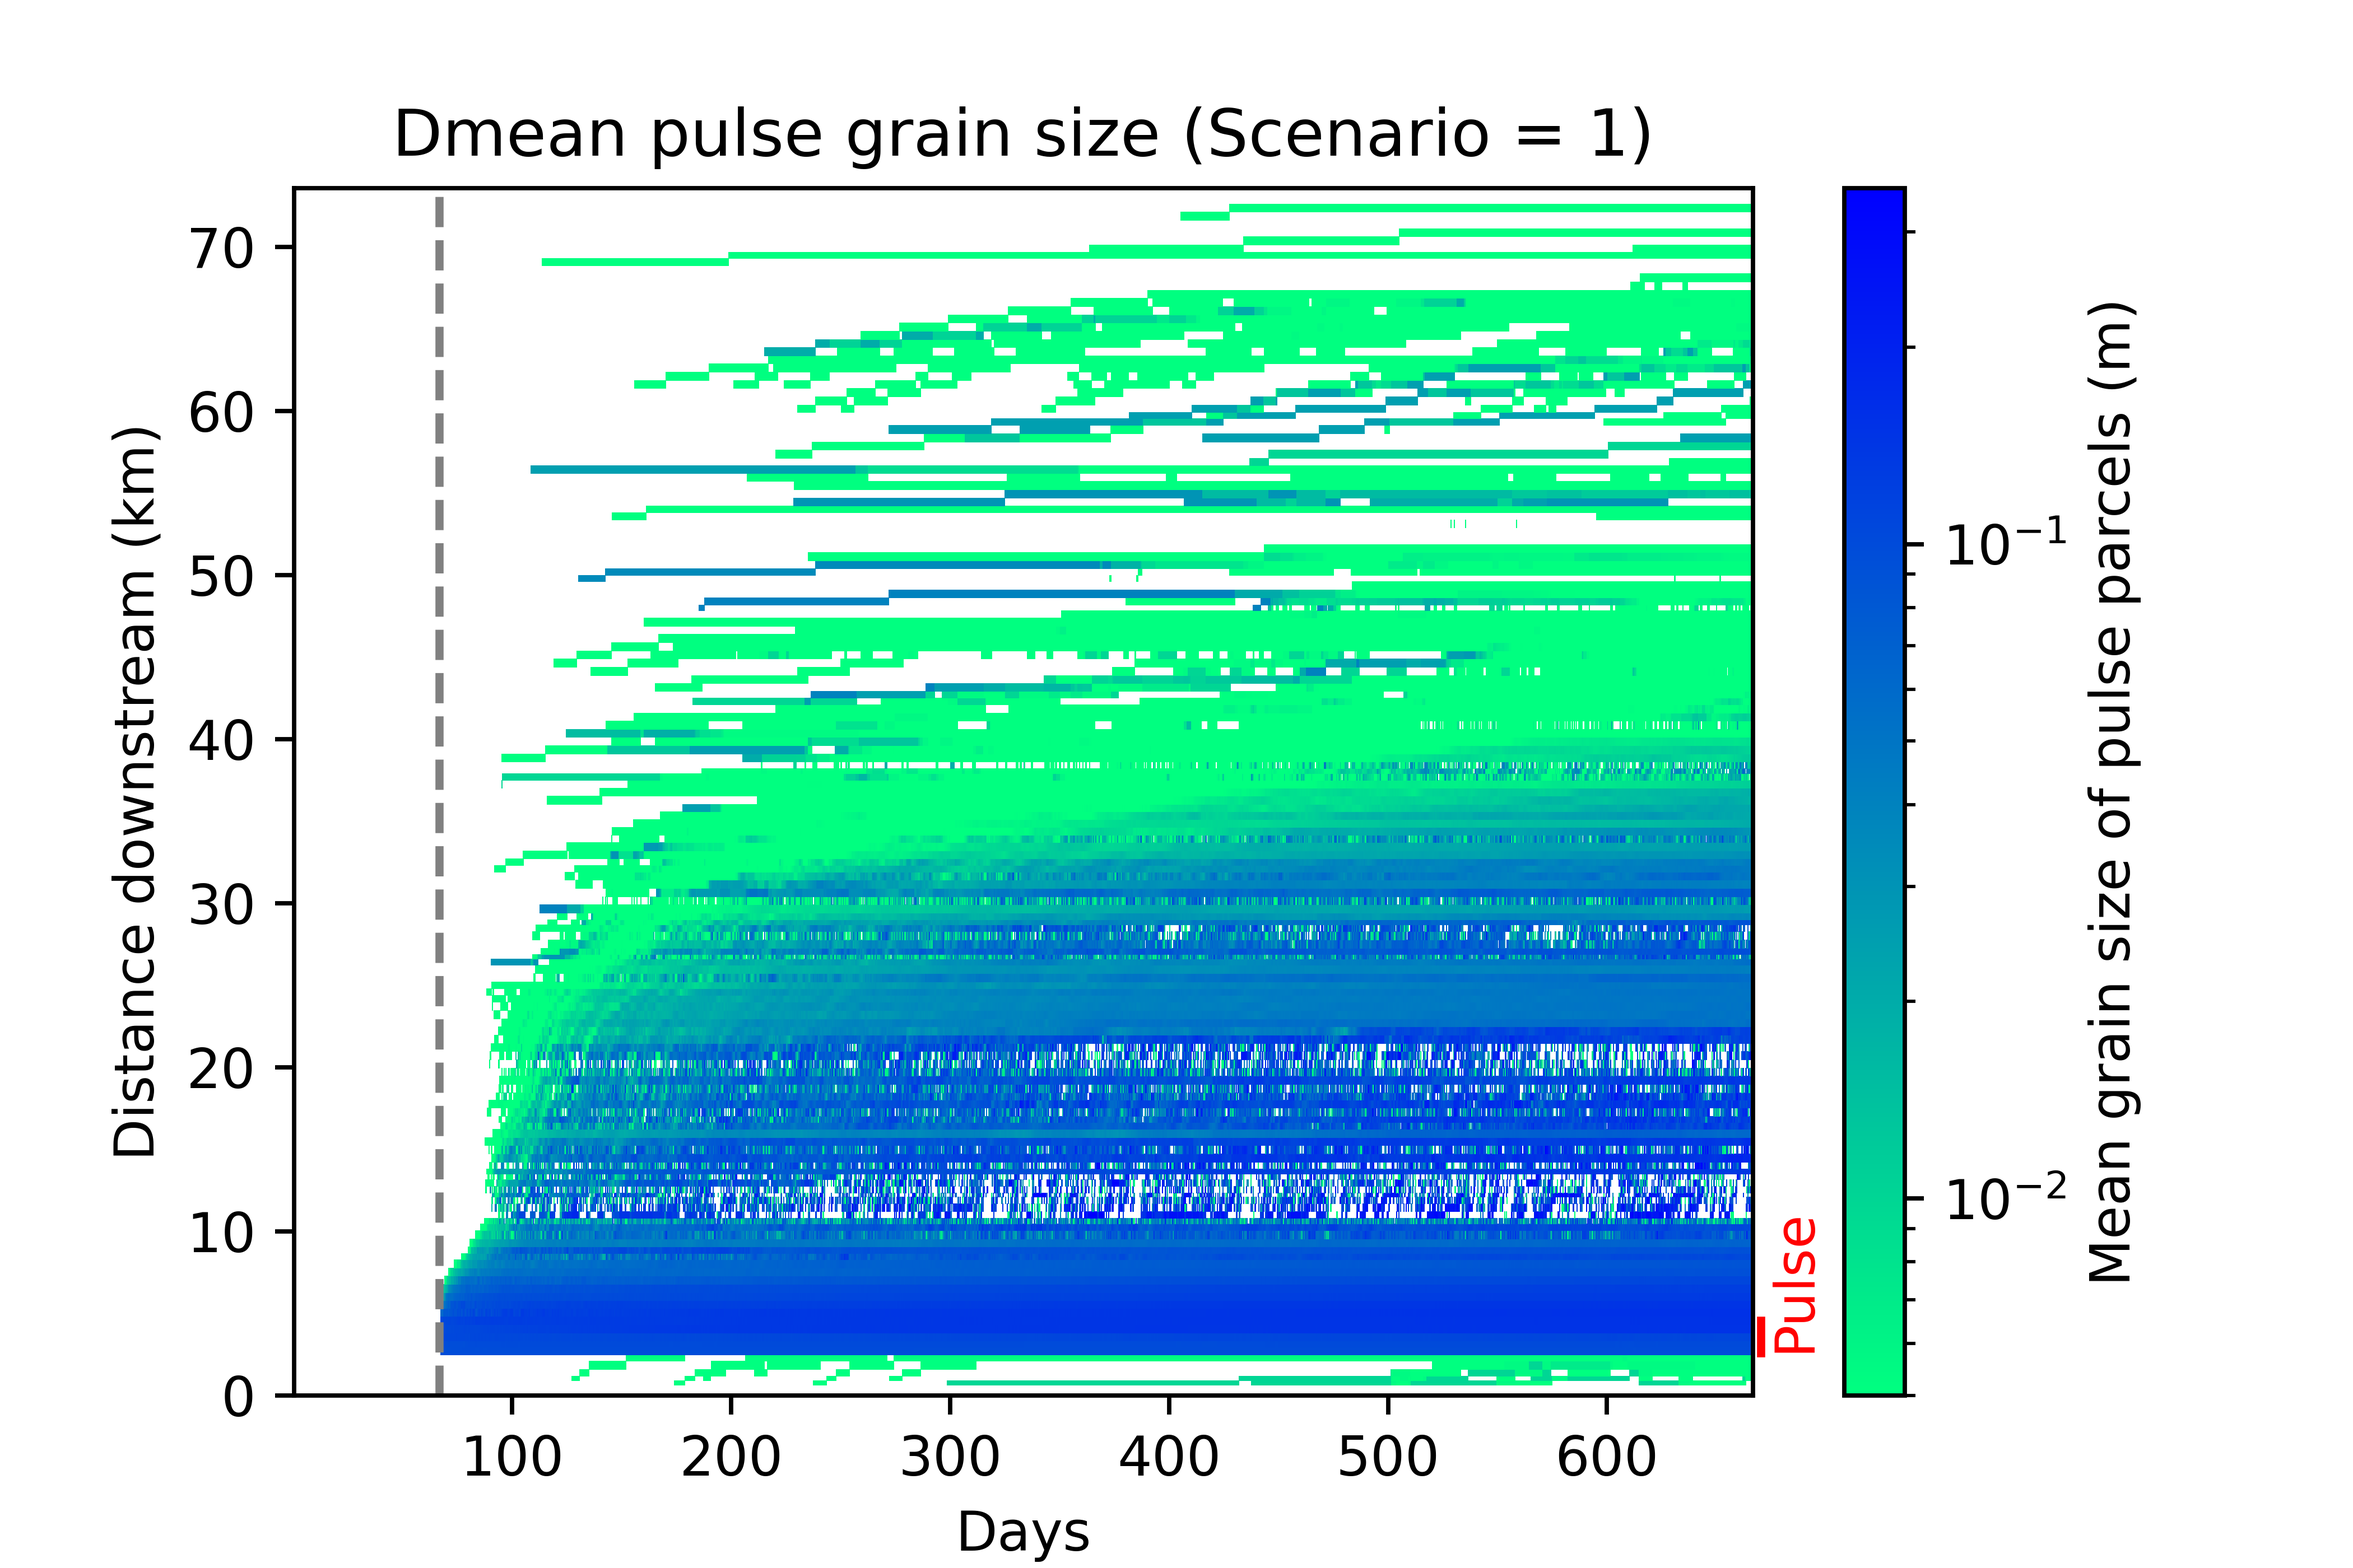
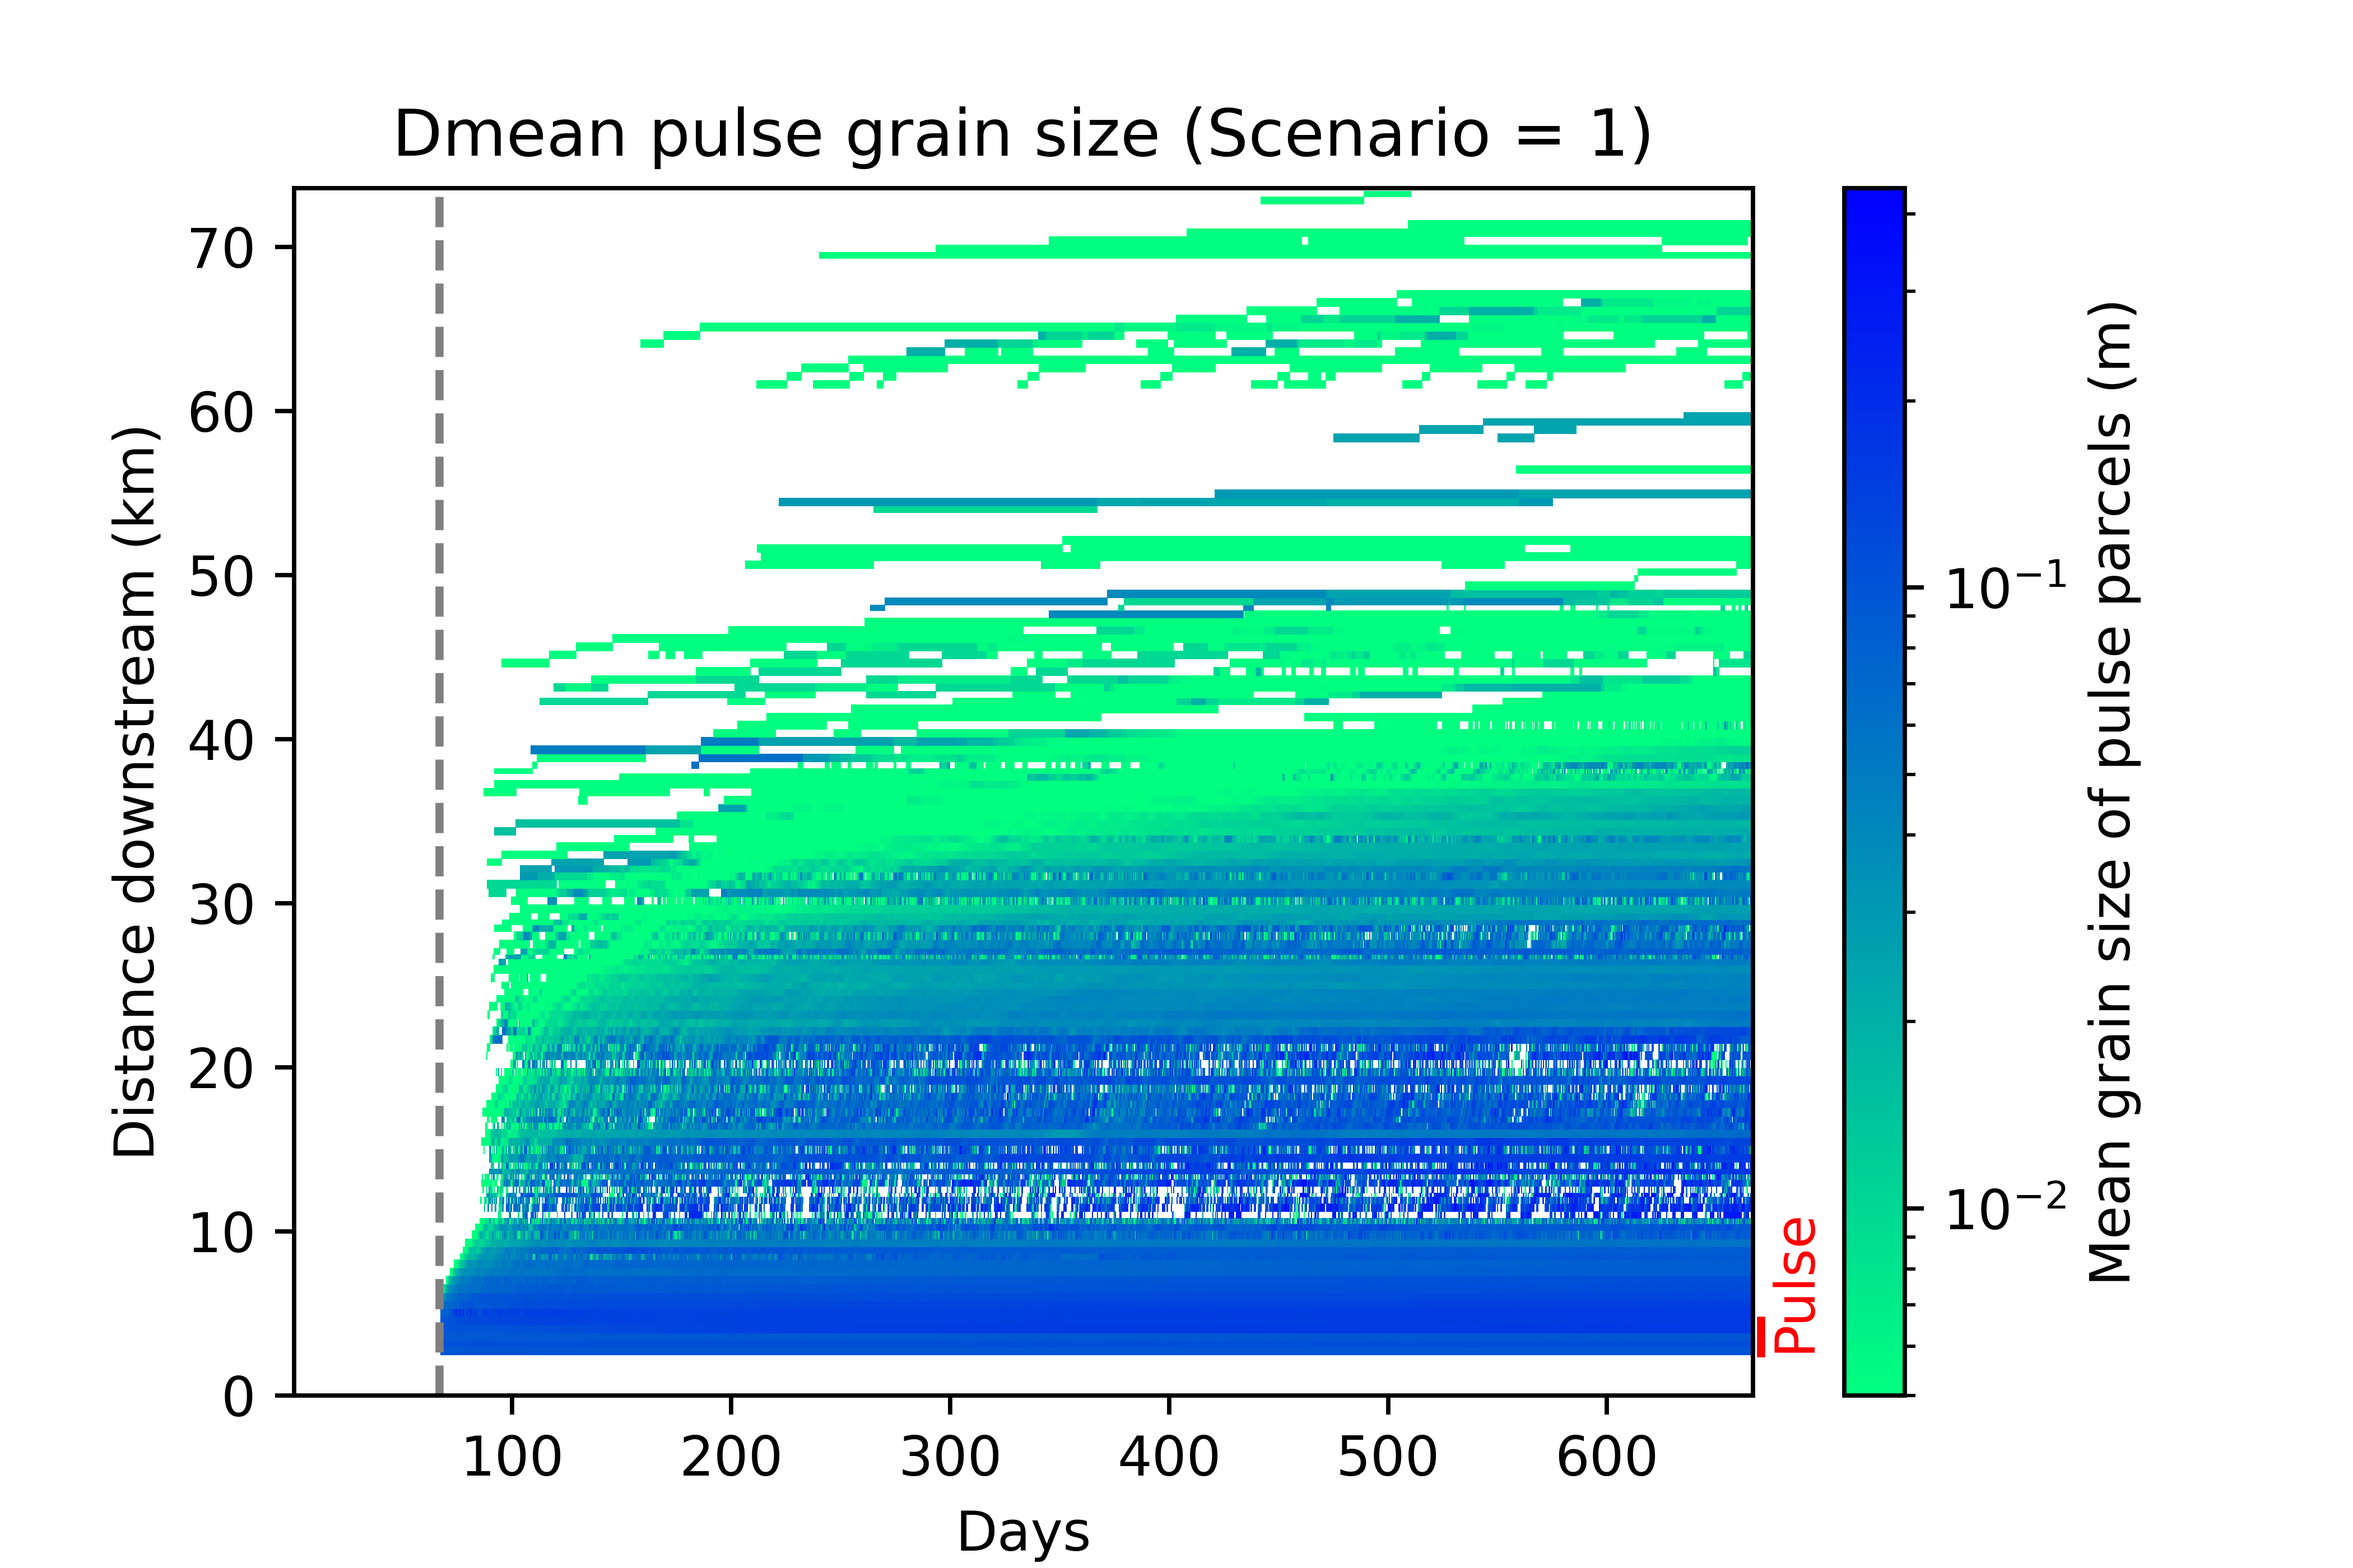
Scenario 1 results

diff --git a/The Suiattle River.py b/The Suiattle River.py
@@ -41,7 +41,7 @@ OUT_OF_NETWORK = NetworkModelGrid.BAD_INDEX - 1
 # %% Basic model setup and knobs 
 
 # #### Selecting abrasion/density scenario #####
-scenario = 1
+scenario = 2
 
 if scenario == 1:
     scenario_num = "none"
